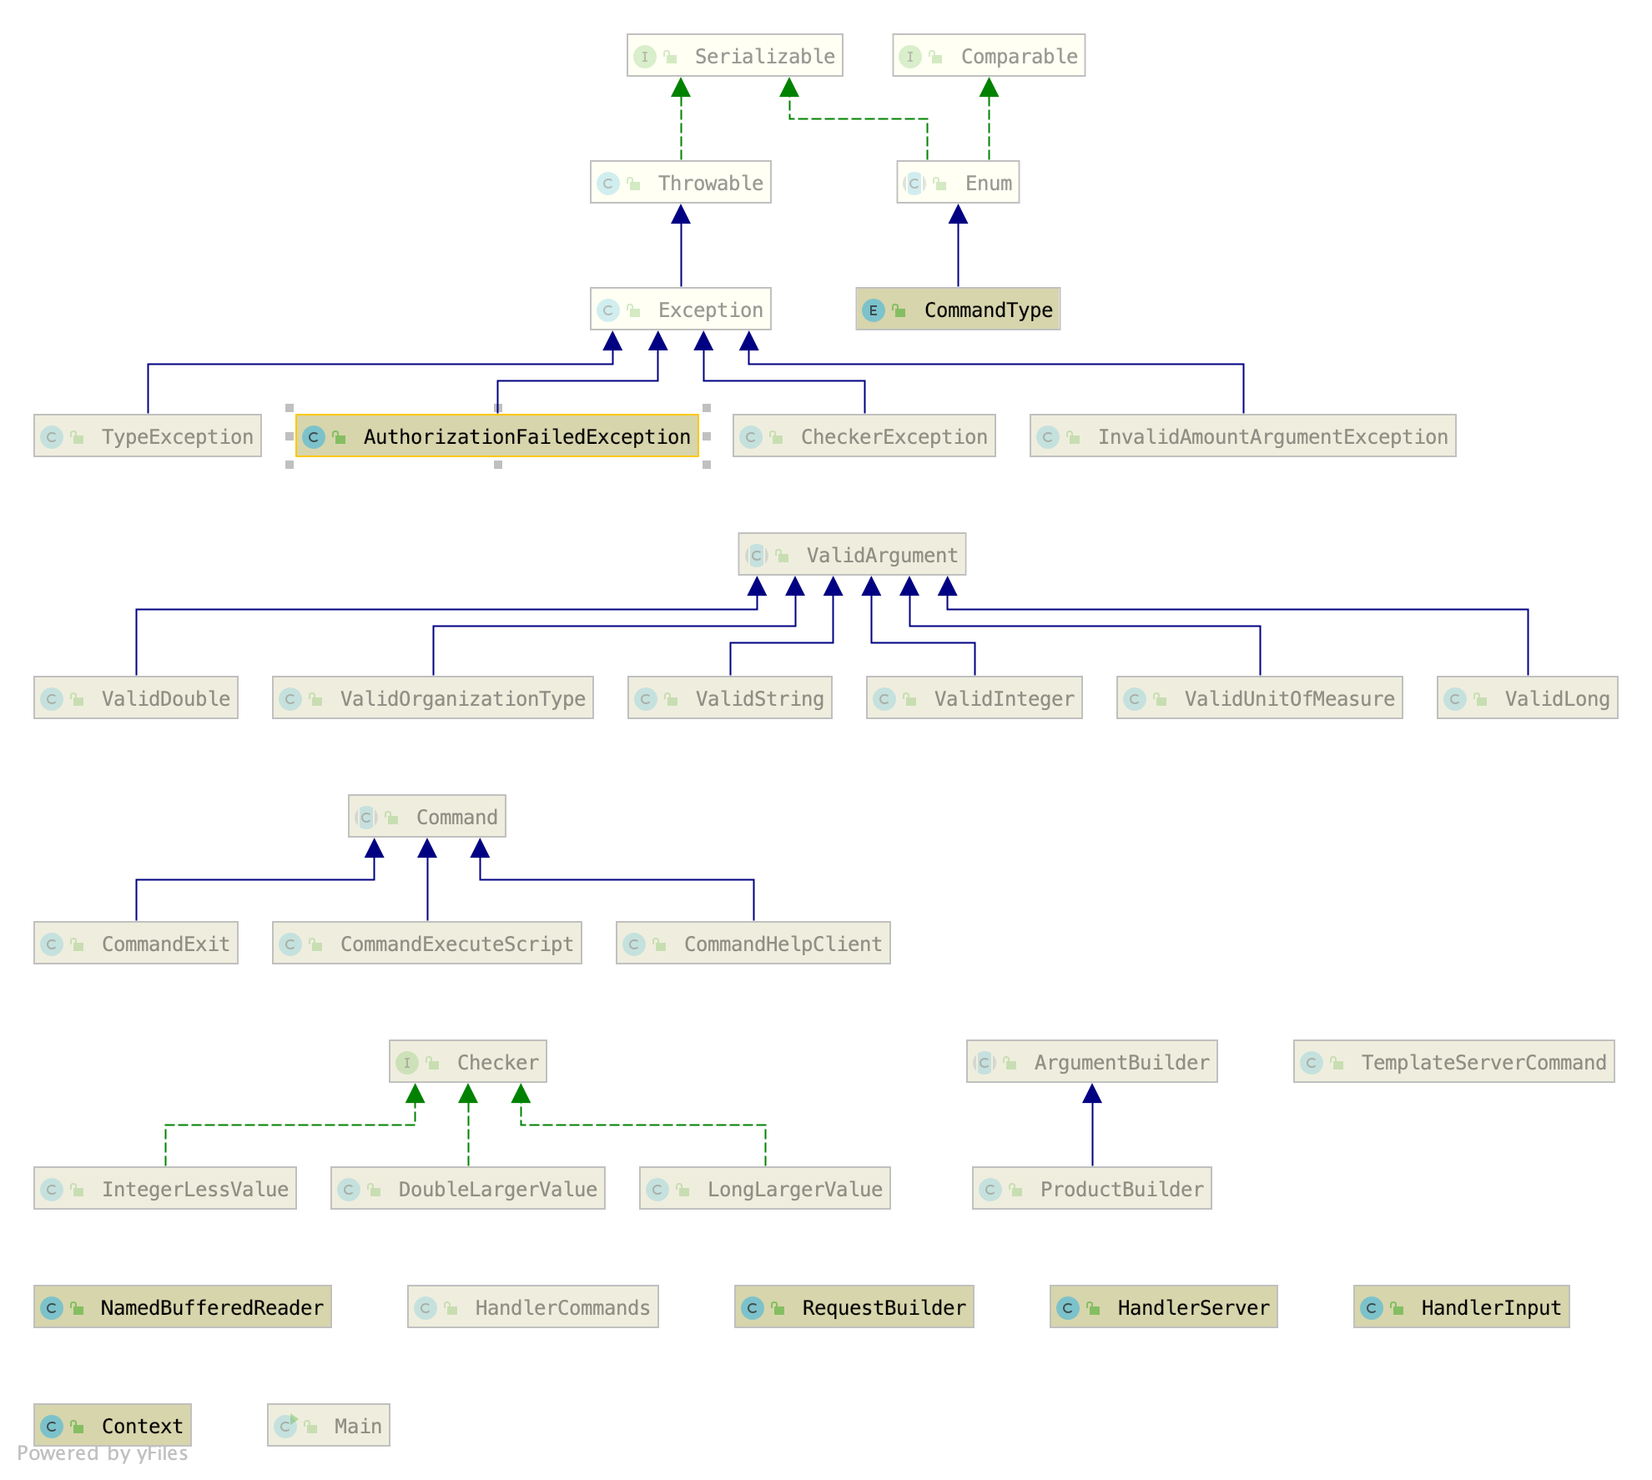
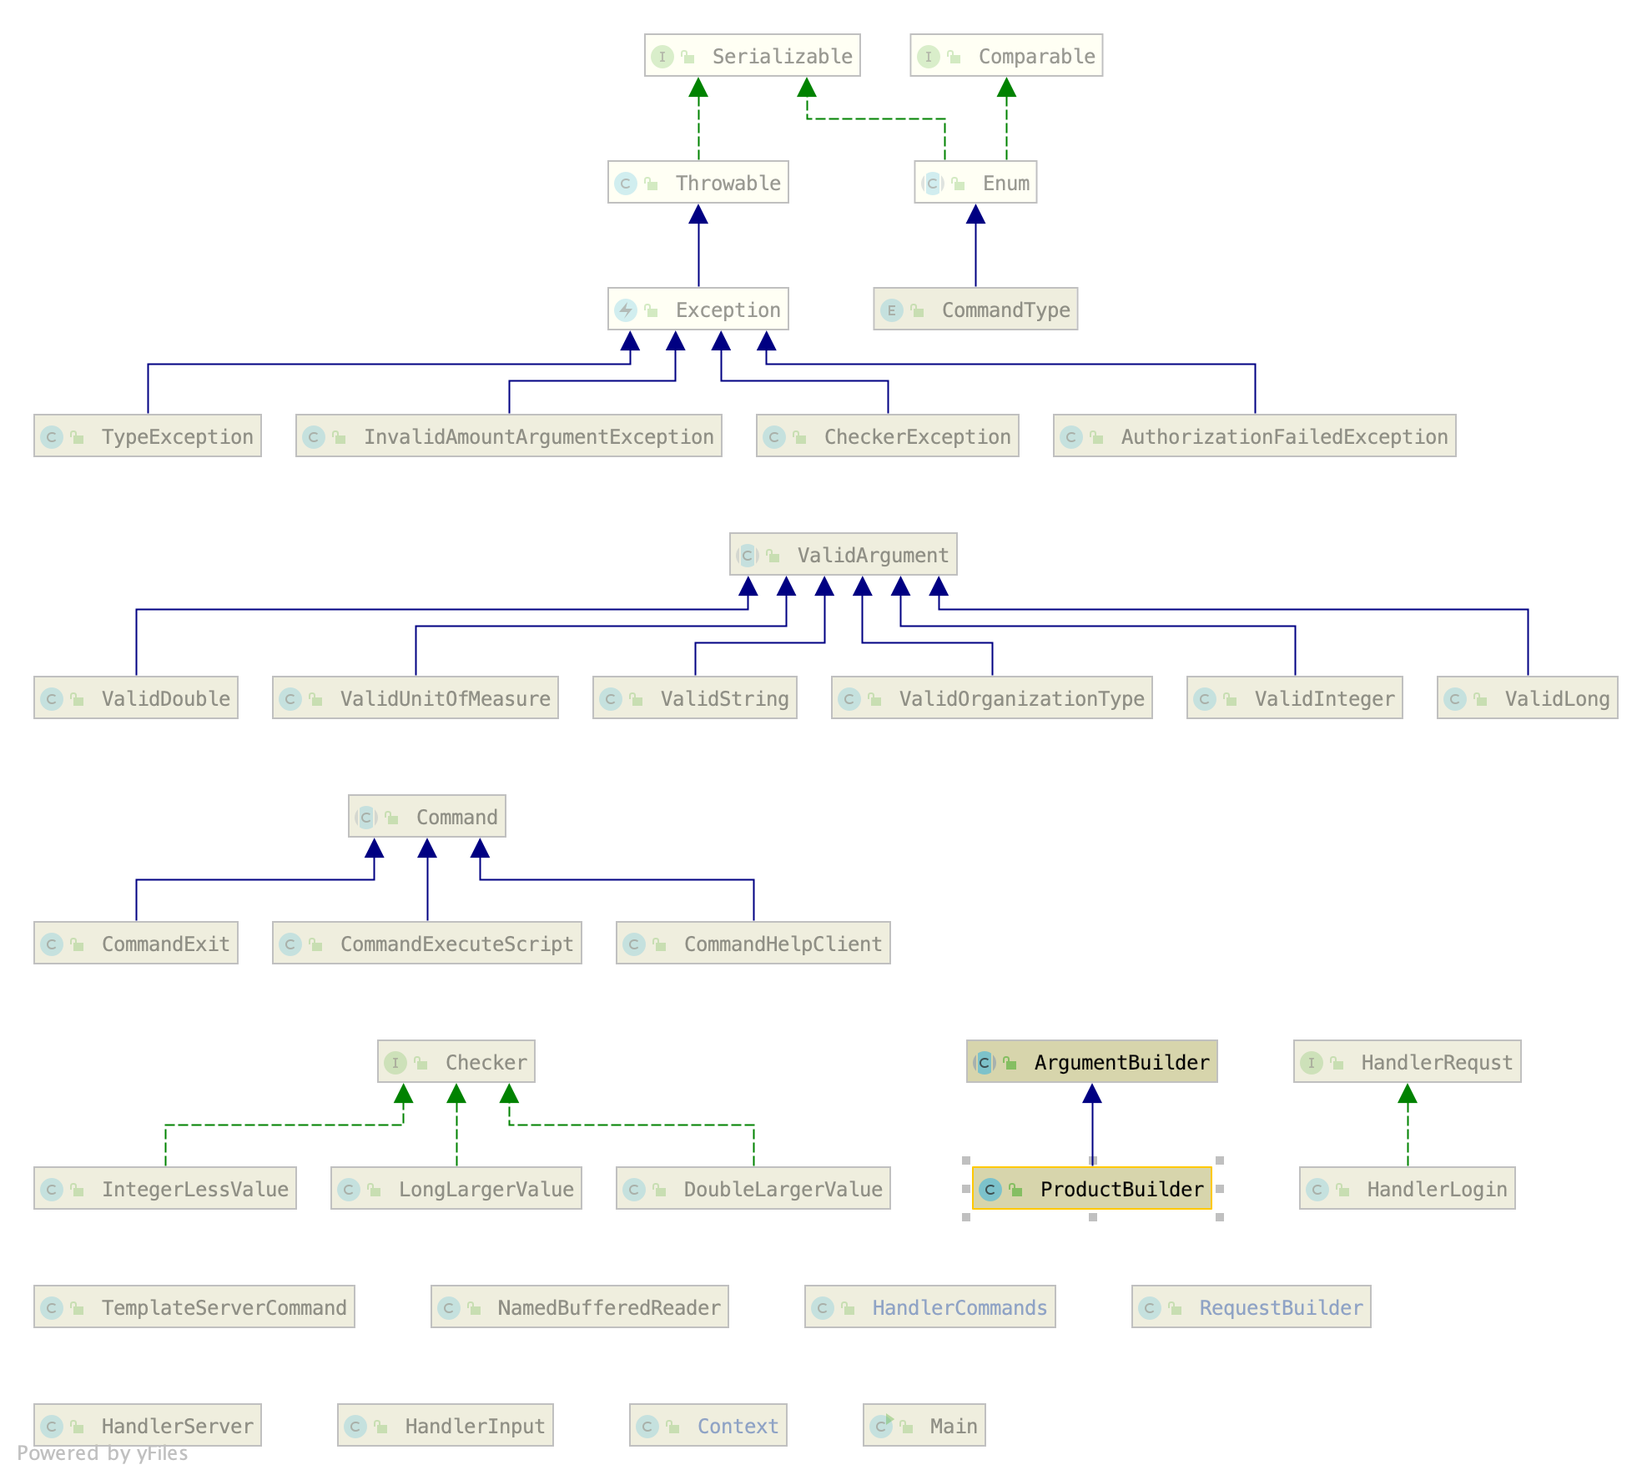
version 1.2

diff --git a/Client/src/application/Context.java b/Client/src/application/Context.java
@@ -5,6 +5,8 @@ import arguments.builders.ProductBuilder;
 import arguments.exceptions.CheckerException;
 import arguments.exceptions.InvalidAmountArgumentException;
 import arguments.exceptions.TypeException;
+import arguments.handlers.HandlerLogin;
+import arguments.handlers.HandlerRequst;
 import arguments.valid.*;
 import commands.CommandExecuteScript;
 import commands.CommandExit;
@@ -18,7 +20,7 @@ import java.net.SocketException;
 import java.net.SocketTimeoutException;
 import java.util.ArrayList;
 import java.util.HashMap;
-import java.util.StringTokenizer;
+import java.util.HashSet;
 
 public class Context {
     public HandlerServer handlerServer;
@@ -27,6 +29,8 @@ public class Context {
     public HandlerCommands handlerCommands;
     public RequestBuilder requestBuilder;
     public HashMap<String, CommandType> commands;
+    public HashMap<String, HandlerRequst> mapHandlers;
+    public HashSet<String> commandsWithoutAuth;
 
     public String login;
     public String password;
@@ -37,6 +41,8 @@ public class Context {
         handlerCommands = new HandlerCommands(this);
         requestBuilder = new RequestBuilder(this);
         commands = new HashMap<>();
+        mapHandlers = new HashMap<>();
+        commandsWithoutAuth = new HashSet<>();
     }
 
     public void initialization(String[] args) {
@@ -57,15 +63,19 @@ public class Context {
 
         handlerInput = new HandlerInput();
 
+        TemplateServerCommand loginCommand = new TemplateServerCommand("login").setValidArgument(new ValidString()).setValidArgument(new ValidString());
+        TemplateServerCommand registrationCommand = new TemplateServerCommand("registration").setValidArgument(new ValidString()).setValidArgument(new ValidString());
+
+
         requestBuilder.addCommand(new TemplateServerCommand("add").setBuildArgument(new ProductBuilder(handlerInput)))
                       .addCommand(new TemplateServerCommand("add_if_min").setBuildArgument(new ProductBuilder(handlerInput)))
                       .addCommand(new TemplateServerCommand("clear"))
                       .addCommand(new TemplateServerCommand("help"))
                       .addCommand(new TemplateServerCommand("info"))
-                      .addCommand(new TemplateServerCommand("login").setValidArgument(new ValidString()).setValidArgument(new ValidString()))
+                      .addCommand(loginCommand)
                       .addCommand(new TemplateServerCommand("print_ascending"))
                       .addCommand(new TemplateServerCommand("filter_less_than_unit_of_measure").setValidArgument(new ValidUnitOfMeasure()))
-                      .addCommand(new TemplateServerCommand("registration").setValidArgument(new ValidString()).setValidArgument(new ValidString()))
+                      .addCommand(registrationCommand)
                       .addCommand(new TemplateServerCommand("remove_by_id").setValidArgument(new ValidInteger()))
                       .addCommand(new TemplateServerCommand("remove_all_by_manufacture_cost").setValidArgument(new ValidLong()))
                       .addCommand(new TemplateServerCommand("remove_first"))
@@ -76,6 +86,10 @@ public class Context {
         handlerCommands.addCommand(new CommandExecuteScript().setValidArgument(new ValidString()))
                        .addCommand(new CommandHelpClient())
                        .addCommand(new CommandExit());
+
+        mapHandlers.put(loginCommand.getName(), new HandlerLogin());
+        commandsWithoutAuth.add(loginCommand.getName());
+        commandsWithoutAuth.add(registrationCommand.getName());
 
         try {
             handlerServer.connect(host, port);
@@ -90,21 +104,12 @@ public class Context {
             handlerServer.sendRequests(requests);
             ArrayList<Response> responses = handlerServer.receiveResponse(delayMillis);
             for (Response response : responses) {
-                if(response.getNameCommand().equals("login")) {
-                    StringTokenizer stringTokenizer = new StringTokenizer(response.getResultComand());
-                    if(stringTokenizer.countTokens() == 2) {
-                        if(login == null && password == null) {
-                            System.out.println("Введите \"help\" для просмотра перечня команд сервера.\n" +
-                                                "Введите \"help_client\" для просмотра перечня команд клиента.\n" +
-                                               "Вводите команды:");
-                        }
-                        login = stringTokenizer.nextToken();
-                        password = stringTokenizer.nextToken();
-                        System.out.println(response.getNameCommand() + ": вход выполнен!");
-                        continue;
-                    }
+                if(mapHandlers.containsKey(response.getNameCommand())) {
+                    mapHandlers.get(response.getNameCommand()).processing(this, response);
                 }
-                System.out.println(response.getNameCommand() + ": " + response.getResultComand());
+                else {
+                    System.out.println(response.getNameCommand() + ": " + response.getResultComand());
+                }
             }
             requests.clear();
             responses.clear();
@@ -125,6 +130,11 @@ public class Context {
                     if(commands.get(data.get(0)) == null) {
                         throw new NullPointerException();
                     }
+                    if(password == null && login == null) {
+                        if(!commandsWithoutAuth.contains(data.get(0))) {
+                            throw new AuthorizationFailedException();
+                        }
+                    }
                     if(commands.get(data.get(0)) == CommandType.SERVER) {
                         requests.add(requestBuilder.getRequest(data));
                     } else if(commands.get(data.get(0)) == CommandType.CLIENT) {
@@ -135,6 +145,8 @@ public class Context {
                     processingRequests(requests, 200);
             } catch (NullPointerException e) {
                 System.out.println("Не найдена такая команда!");
+            } catch (AuthorizationFailedException e) {
+                System.out.println("Для выполнения этой команды нужно сначала авторизоваться!");
             } catch (InvalidAmountArgumentException e) {
                 System.out.println("Неверное количество параметров!");
             } catch (TypeException e) {
@@ -145,8 +157,6 @@ public class Context {
                 System.out.println("Не удалось дессериализовать ответ сервера.");
             } catch (SocketTimeoutException e) {
                 System.out.println("Ответ на запрос не пришел. Возможно, сервер временно недоступен.");
-            } catch (AuthorizationFailedException e) {
-                System.out.println("Ошибка авторизации.");
             } catch (Exception e) {
                 System.out.println(e.getMessage());
             }

diff --git a/Server/src/application/Transmitter.java b/Server/src/application/Transmitter.java
@@ -1,6 +1,7 @@
 package application;
 
 import communication.Response;
+import network.AddressedResponse;
 
 import java.io.IOException;
 import java.net.SocketException;
@@ -16,21 +17,25 @@ public class Transmitter implements Runnable {
 
     @Override
     public void run() {
-        if(!context.queueAddressedResponse.isEmpty()) {
-            AddressedResponse response = context.queueAddressedResponse.poll();
-            try {
-                context.handlerClient.sendAddressedResponse(response);
-            } catch (SocketException e) {
-                ArrayList<Response> error = new ArrayList<>();
-                error.add(new Response("Ошибка", "слишком много запросов, перезагрузите клиент."));
+        try {
+            if (!context.queueAddressedResponse.isEmpty()) {
+                AddressedResponse response = context.queueAddressedResponse.poll();
                 try {
-                    context.handlerClient.sendAddressedResponse(new AddressedResponse(response.getSocketAddress(), error));
-                } catch (IOException e1) {
-                    context.logger.warn("Произошла ошибка при отправке ответа: " + e1.getMessage());
+                    context.handlerClient.sendAddressedResponse(response);
+                } catch (SocketException e) {
+                    ArrayList<Response> error = new ArrayList<>();
+                    error.add(new Response("Ошибка", "слишком много запросов, перезагрузите клиент."));
+                    try {
+                        context.handlerClient.sendAddressedResponse(new AddressedResponse(response.getSocketAddress(), error));
+                    } catch (IOException e1) {
+                        context.logger.warn("Произошла ошибка при отправке ответа: " + e1.getMessage());
+                    }
+                } catch (IOException e) {
+                    context.logger.warn("Произошла ошибка при отправке ответа: " + e.getMessage());
                 }
-            } catch (IOException e) {
-                context.logger.warn("Произошла ошибка при отправке ответа: " + e.getMessage());
             }
+        } catch (Exception e) {
+
         }
     }
 }

diff --git a/Client/src/arguments/handlers/HandlerLogin.java b/Client/src/arguments/handlers/HandlerLogin.java
@@ -1,0 +1,25 @@
+package arguments.handlers;
+
+import application.Context;
+import communication.Response;
+
+import java.util.StringTokenizer;
+
+public class HandlerLogin implements HandlerRequst {
+
+    @Override
+    public void processing(Context context, Response response) {
+        StringTokenizer stringTokenizer= new StringTokenizer(response.getResultComand());
+        if(stringTokenizer.countTokens() == 2) {
+            context.login = stringTokenizer.nextToken();
+            context.password = stringTokenizer.nextToken();
+            System.out.println(response.getNameCommand() + ": вход выполнен!");
+            System.out.println("Введите \"help\" для просмотра перечня команд сервера.\n" +
+                    "Введите \"help_client\" для просмотра перечня команд клиента.\n" +
+                    "Вводите команды:");
+        }
+        else {
+            System.out.println(response.getNameCommand() + ": " + response.getResultComand());
+        }
+    }
+}

diff --git a/Server/src/commands/CommandHelp.java b/Server/src/commands/CommandHelp.java
@@ -18,10 +18,19 @@ public class CommandHelp extends Command {
 
     @Override
     public Response execute() {
-        String result = "\n";
-        for (Map.Entry<String, Command> command : context.handlerCommands.getCommands().entrySet()){
-            result = result + command.getKey() + ": " + command.getValue().getManual() + "\n";
+        try {
+            if(context.handlerDatabase.isExistingUser(login, password) == -1) {
+                throw new Exception();
+            }
+            else {
+                String result = "\n";
+                for (Map.Entry<String, Command> command : context.handlerCommands.getCommands().entrySet()){
+                    result = result + command.getKey() + ": " + command.getValue().getManual() + "\n";
+                }
+                return new Response(getName(), result);
+            }
+        } catch (Exception e) {
+            return new Response(getName(), "Вы не прошли авторизацию.");
         }
-        return new Response(getName(), result);
     }
 }

diff --git a/Server/src/application/HandlerRequest.java b/Server/src/application/HandlerRequest.java
@@ -1,5 +1,7 @@
 package application;
 
+import network.AddressedRequest;
+import network.AddressedResponse;
 import communication.Request;
 import communication.Response;
 
@@ -15,10 +17,8 @@ public class HandlerRequest implements Runnable {
 
     @Override
     public void run() {
-
-        if(!context.queueAddressedRequests.isEmpty()) {
-
-            try {
+        try {
+            if (!context.queueAddressedRequests.isEmpty()) {
                 AddressedRequest addressedRequest = context.queueAddressedRequests.poll();
 
                 ArrayList<Response> responses = new ArrayList<>(addressedRequest.getRequests().size());
@@ -27,9 +27,8 @@ public class HandlerRequest implements Runnable {
                 }
                 context.queueAddressedResponse.add(new AddressedResponse(addressedRequest.getSocketAddress(), responses));
             }
-            catch (Exception e) {
-                System.out.println("fghjkl");
-            }
+        } catch (Exception e) {
+
         }
     }
 }

diff --git a/Server/src/application/Context.java b/Server/src/application/Context.java
@@ -1,5 +1,8 @@
 package application;
 
+import network.AddressedRequest;
+import network.AddressedResponse;
+import network.HandlerClient;
 import collection.ProductList;
 import commands.*;
 import org.slf4j.Logger;
@@ -64,7 +67,7 @@ public class Context {
             System.exit(1);
         }
         try {
-            handlerDatabase.initialization("jdbc:postgresql://127.0.0.1:5432/lab6_prob");
+            handlerDatabase.initialization("jdbc:postgresql://pg/studs", "s283005", "exk189"); //handlerDatabase.initialization("jdbc:postgresql://localhost:5432/lab6_prob");
         } catch (Exception e) {
             logger.error("Не удалось подключиться к базе данных!");
             System.exit(1);

diff --git a/Server/src/commands/CommandPrintLessUnitOfMeasure.java b/Server/src/commands/CommandPrintLessUnitOfMeasure.java
@@ -17,6 +17,15 @@ public class CommandPrintLessUnitOfMeasure extends Command {
 
     @Override
     public Response execute() {
-        return new Response(getName(), context.productList.printLessThanUnitOfMeasure((UnitOfMeasure)arguments[0].getValue()));
+        try {
+            if(context.handlerDatabase.isExistingUser(login, password) == -1) {
+                throw new Exception();
+            }
+            else {
+                return new Response(getName(), context.productList.printLessThanUnitOfMeasure((UnitOfMeasure)arguments[0].getValue()));
+            }
+        } catch (Exception e) {
+            return new Response(getName(), "Вы не прошли авторизацию.");
+        }
     }
 }

diff --git a/Client/src/application/RequestBuilder.java b/Client/src/application/RequestBuilder.java
@@ -29,9 +29,6 @@ public class RequestBuilder {
 
     public Request getRequest(ArrayList<String> data) throws InvalidAmountArgumentException, TypeException, CheckerException, AuthorizationFailedException {
         String nameCommand = data.remove(0);
-        if((context.login == null || context.password == null) && !nameCommand.equals("login") && !nameCommand.equals("registration")) {
-            throw new AuthorizationFailedException();
-        }
         ArrayList<Argument> arguments = serverCommands.get(nameCommand).getArguments(data);
         Argument[] arrayArguments = new Argument[arguments.size()];
         arguments.toArray(arrayArguments);

diff --git a/Server/src/commands/CommandPrintAscending.java b/Server/src/commands/CommandPrintAscending.java
@@ -16,6 +16,15 @@ public class CommandPrintAscending extends Command {
 
     @Override
     public Response execute() {
-        return new Response(getName(), context.productList.printAscending());
+        try {
+            if(context.handlerDatabase.isExistingUser(login, password) == -1) {
+                throw new Exception();
+            }
+            else {
+                return new Response(getName(), context.productList.printAscending());
+            }
+        } catch (Exception e) {
+            return new Response(getName(), "Вы не прошли авторизацию.");
+        }
     }
 }

diff --git a/Server/src/commands/CommandShow.java b/Server/src/commands/CommandShow.java
@@ -16,6 +16,15 @@ public class CommandShow extends Command {
 
     @Override
     public Response execute() {
-        return new Response(getName(), context.productList.getAlphabet());
+        try {
+            if(context.handlerDatabase.isExistingUser(login, password) == -1) {
+                throw new Exception();
+            }
+            else {
+                return new Response(getName(), context.productList.getAlphabet());
+            }
+        } catch (Exception e) {
+            return new Response(getName(), "Вы не прошли авторизацию.");
+        }
     }
 }

diff --git a/Server/src/commands/CommandInfo.java b/Server/src/commands/CommandInfo.java
@@ -16,6 +16,15 @@ public class CommandInfo extends Command {
 
     @Override
     public Response execute() {
-        return new Response(getName(), context.productList.printInfo());
+        try {
+            if(context.handlerDatabase.isExistingUser(login, password) == -1) {
+                throw new Exception();
+            }
+            else {
+                return new Response(getName(), context.productList.printInfo());
+            }
+        } catch (Exception e) {
+            return new Response(getName(), "Вы не прошли авторизацию.");
+        }
     }
 }

diff --git a/Server/src/commands/CommandReorder.java b/Server/src/commands/CommandReorder.java
@@ -16,6 +16,15 @@ public class CommandReorder extends Command {
 
     @Override
     public Response execute() {
-        return new Response(getName(), context.productList.reverse());
+        try {
+            if(context.handlerDatabase.isExistingUser(login, password) == -1) {
+                throw new Exception();
+            }
+            else {
+                return new Response(getName(), context.productList.reverse());
+            }
+        } catch (Exception e) {
+            return new Response(getName(), "Вы не прошли авторизацию.");
+        }
     }
 }
